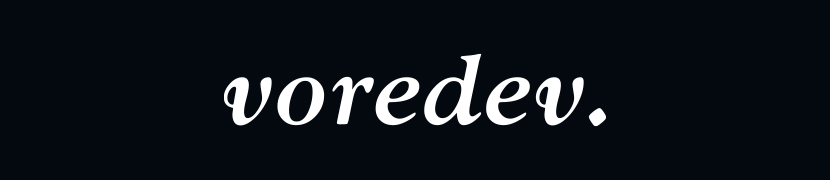
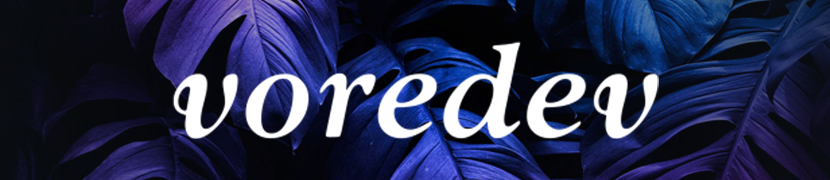
update #8

diff --git a/README.md b/README.md
@@ -1,4 +1,4 @@
-<img alt="voredev" src="img/banner.png" width=1590px height=180px />
+<img alt="voredev" src="img/banner.jpg"/>
 
 Hi 👋 My name is Marat
 ========================================================================================================================================
@@ -8,7 +8,7 @@ I am Front End developer.
 
 *   🖥  See my portfolio at <a target="_blank" rel="noreferrer" href='https://voredev.ru'>Portfolio</a>
 *   🧠  Currently learning JavaScript, React.js, Node.js
-*   🤝  I'm open to collaborating on interesting projects as a developer ☛ <a href="https://t.me/voredev"><img src="https://img.shields.io/badge/Telegram-2CA5E0?&logo=telegram&logoColor=white" width="55" height="15" alt="Telegram" /></a>
+*   🤝  I'm open to collaborating on interesting projects as a developer ☛ <a href="https://t.me/voredev">voredev</a>
 
 ### Skills
 
@@ -31,7 +31,18 @@ I am Front End developer.
 
 ### Socials
 <a href="https://www.linkedin.com/in/voredev/" target="_blank" rel="noreferrer"><img src="https://raw.githubusercontent.com/danielcranney/readme-generator/main/public/icons/socials/linkedin.svg" width="32" height="32" alt="linkedin.com" /></a>&nbsp;
-<a href="https://hh.ru/resume/cb47e907ff05a5c66d0039ed1f6a656f6f3458/" target="_blank" rel="noreferrer"><img src="img/hh.svg" width="32" height="32" alt="hh.ru" /></a>
+<a href="https://hh.ru/resume/cb47e907ff05a5c66d0039ed1f6a656f6f3458/" target="_blank" rel="noreferrer"><img src="img/hh.svg" width="32" height="32" alt="hh.ru" /></a>&nbsp;
 <a href="https://www.instagram.com/voredev/" target="_blank" rel="noreferrer"><img src="https://raw.githubusercontent.com/danielcranney/readme-generator/main/public/icons/socials/instagram.svg" width="32" height="32" alt="instagram" /></a>&nbsp;
+<a href="https://dev.to/maratdev" target="_blank" rel="noreferrer"><img src="img/dev-dot-to.svg" width="52" height="32" alt="dev.to" /></a>
 
 </p>
+--------------------------
+<details> <summary><b>⚡GitHub Stats</b></summary>
+
+#### Profile statistics
+
+[![Voredev GitHub stats](https://github-readme-stats.vercel.app/api?username=maratdev&theme=holi&show_icons=true)](https://github.com/anuraghazra/github-readme-stats)
+
+#### Top Languages
+[![Top Langs](https://github-readme-stats.vercel.app/api/top-langs/?username=maratdev&layout=compact&theme=holi)](https://github.com/anuraghazra/github-readme-stats)
+</details>
